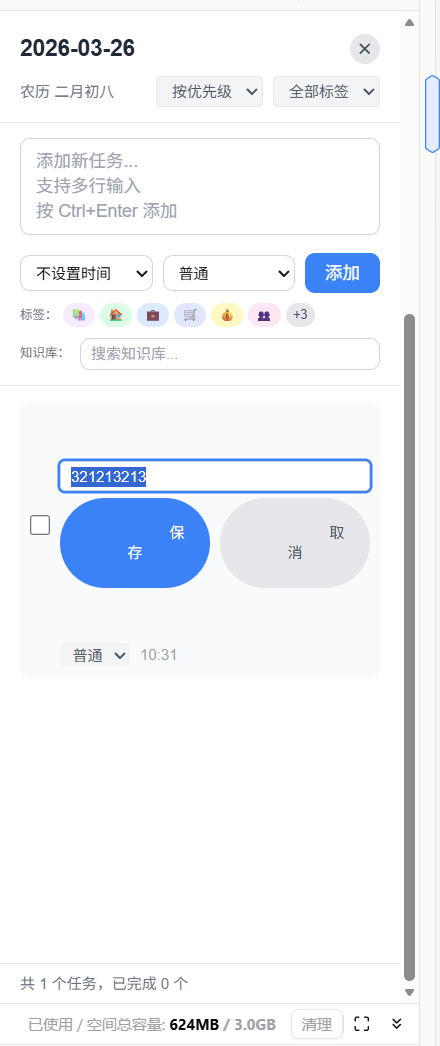
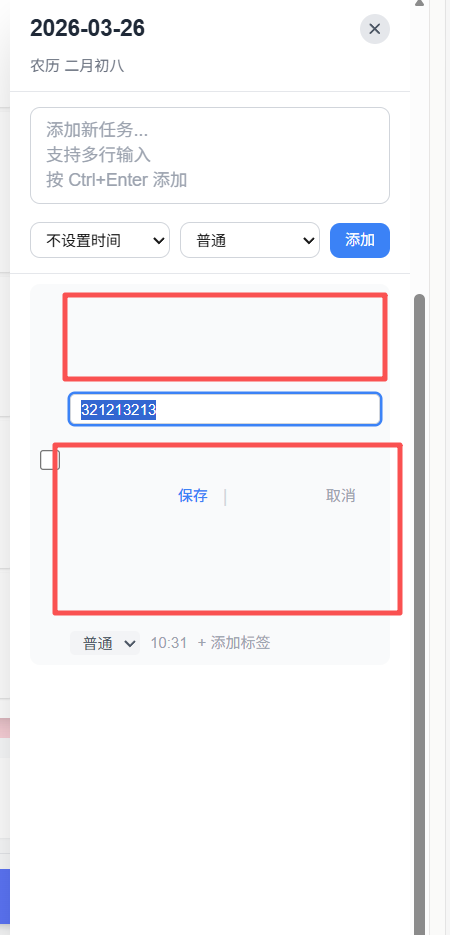
style: 紧凑化编辑模式布局
- 文本框和按钮在同一行，按钮放右侧
- 减少文本框内边距：px-2 py-1 → px-1.5 py-0.5
- 减少聚焦环宽度：ring-2 → ring-1
- 按钮上下排列，使用纯文字样式
- 整体更紧凑美观

diff --git a/src/main.ts b/src/main.ts
@@ -3799,20 +3799,19 @@ class DailyPlanner {
               .replace(/>/g, '&gt;')
               .replace(/"/g, '&quot;');
             textSpan.innerHTML = `
-              <div class="w-full">
+              <div class="flex items-start gap-2 w-full">
                 <textarea id="edit-input-${taskId}"
-                       class="w-full px-2 py-1 border ${isDark ? 'bg-gray-600 border-gray-500 text-gray-100' : 'bg-white border-gray-300 text-gray-700'} rounded focus:outline-none focus:ring-2 focus:ring-blue-500 text-xs select-text resize-none overflow-hidden"
+                       class="flex-1 min-w-0 px-1.5 py-0.5 border ${isDark ? 'bg-gray-600 border-gray-500 text-gray-100' : 'bg-white border-gray-300 text-gray-700'} rounded focus:outline-none focus:ring-1 focus:ring-blue-500 text-xs select-text resize-none overflow-hidden leading-relaxed"
                        rows="1"
                        oninput="this.style.height = 'auto'; this.style.height = this.scrollHeight + 'px';"
                        onkeydown="if(event.key === 'Enter' && event.ctrlKey) { event.preventDefault(); planner.editTask('${taskId}', this.value); } else if(event.key === 'Escape') { planner.updateTaskPanel(); }">${escapedText}</textarea>
-                <div class="flex items-center justify-center gap-3 mt-2">
+                <div class="flex flex-col gap-1 pt-0.5">
                   <button onclick="planner.editTask('${taskId}', document.getElementById('edit-input-${taskId}').value)"
-                          class="text-blue-500 hover:text-blue-600 text-xs font-medium transition-colors">
+                          class="text-[10px] text-blue-500 hover:text-blue-600 font-medium whitespace-nowrap">
                     保存
                   </button>
-                  <span class="text-gray-300">|</span>
                   <button onclick="planner.updateTaskPanel()"
-                          class="text-gray-400 hover:text-gray-600 text-xs transition-colors">
+                          class="text-[10px] text-gray-400 hover:text-gray-500 whitespace-nowrap">
                     取消
                   </button>
                 </div>
